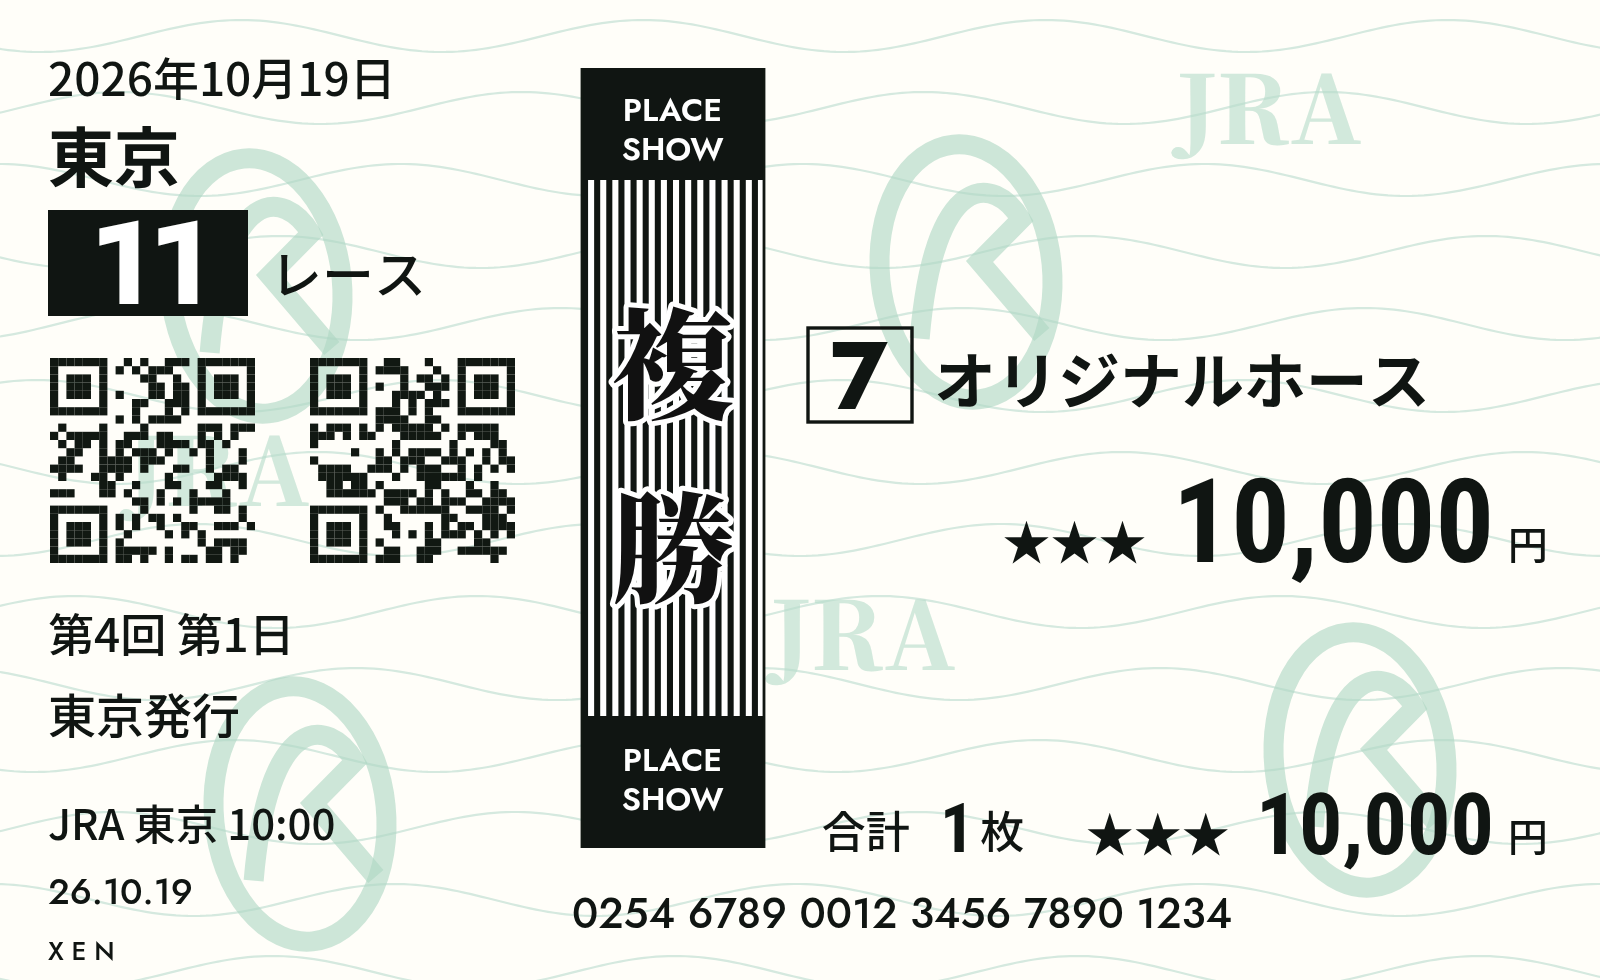
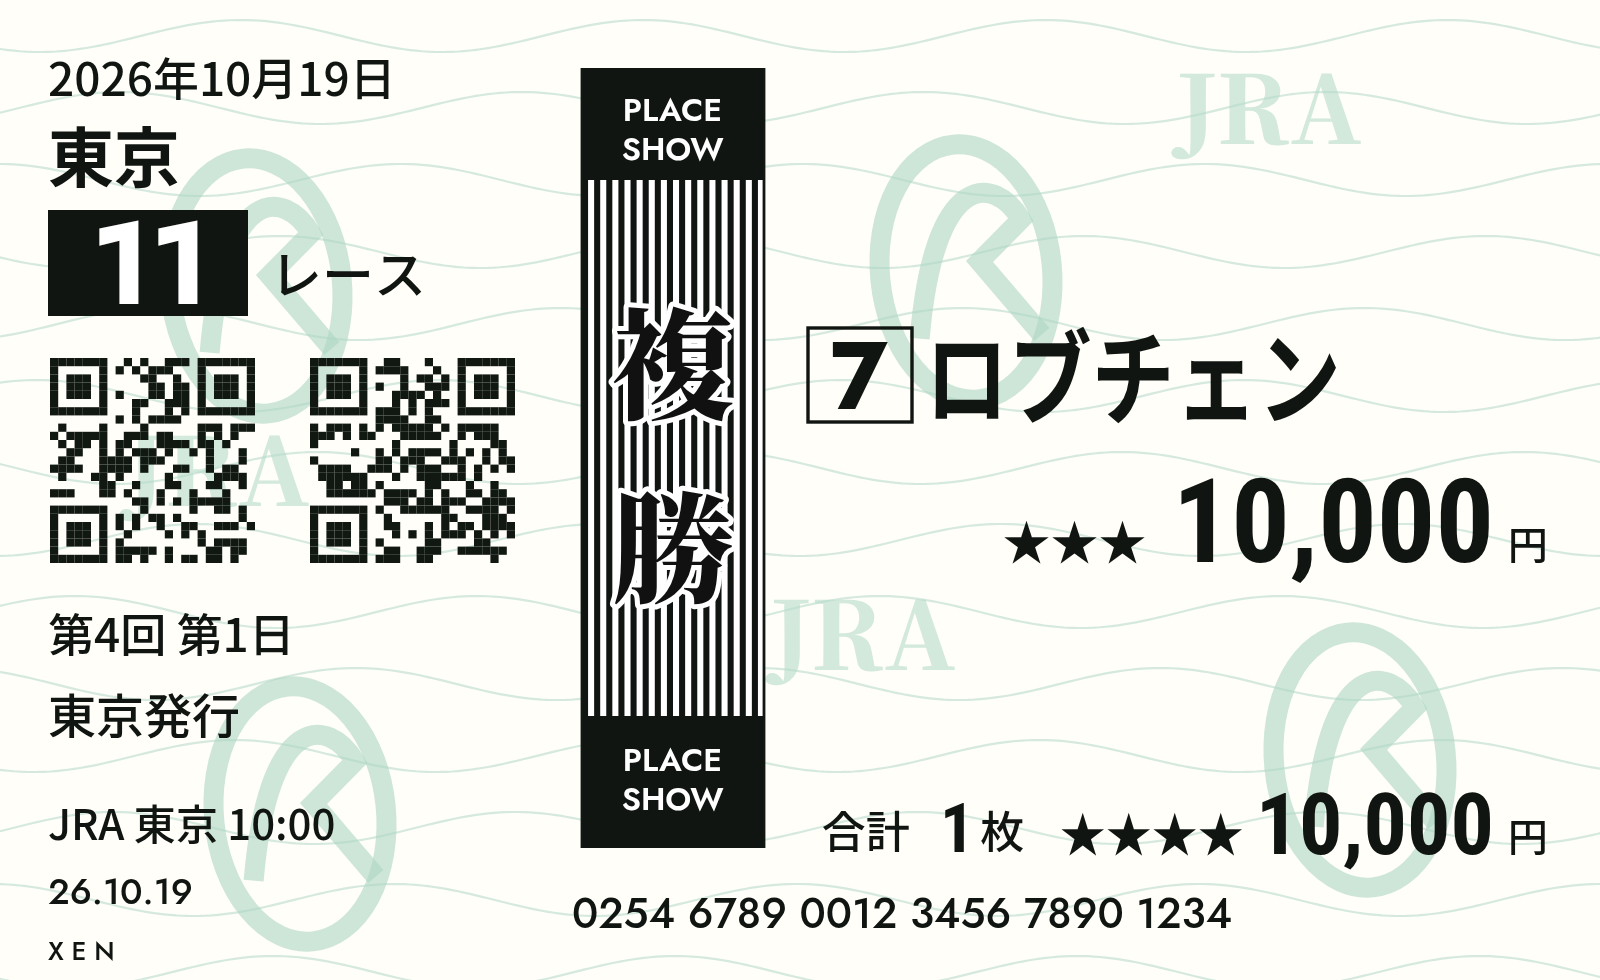
Match horse name height to number frame and use four total stars

Changed region(s): [[0.5625, 0.3367, 0.9062, 0.4286], [0.6562, 0.8265, 0.7812, 0.8878]]

diff --git a/app.js b/app.js
@@ -59,11 +59,22 @@
   function line(x1,y1,x2,y2,width=1.8) {ctx.beginPath();ctx.lineWidth=width;ctx.strokeStyle='#111712';ctx.moveTo(x1,y1);ctx.lineTo(x2,y2);ctx.stroke();}
   function rect(x,y,w,h,width=1.8){ctx.strokeStyle='#101512';ctx.lineWidth=width;ctx.strokeRect(x,y,w,h);}
   function blackBox(x,y,w,h){ctx.fillStyle='#101512';ctx.fillRect(x,y,w,h);}
-  function money(amount,right,y,size=45,maxWidth=285){
+  function horseName(value,x,top,height,maxWidth){
+    ctx.save();setFont(48,'sans',700);ctx.textBaseline='alphabetic';ctx.fillStyle='#101512';
+    const m=ctx.measureText(value), glyphHeight=m.actualBoundingBoxAscent+m.actualBoundingBoxDescent;
+    const scaleY=height/Math.max(1,glyphHeight);
+    const scaleX=Math.min(scaleY*.8,maxWidth/Math.max(1,m.actualBoundingBoxLeft+m.actualBoundingBoxRight));
+    ctx.translate(x,top+height/2);ctx.scale(scaleX,scaleY);
+    ctx.fillText(value,m.actualBoundingBoxLeft,(m.actualBoundingBoxAscent-m.actualBoundingBoxDescent)/2);
+    ctx.restore();
+  }
+  function money(amount,right,y,size=45,maxWidth=285,starCount=3){
     ctx.save();setFont(size,'money',700);const s=number(amount), yen=20, gap=7;
-    const width=Math.min(ctx.measureText(s).width,maxWidth-yen-40), left=right-yen-gap-width;
+    const reserve=starCount===4?100:40;
+    const width=Math.min(ctx.measureText(s).width,maxWidth-yen-reserve), left=right-yen-gap-width;
     text(s,left,y,size,'money',700,width);text('円',right-yen,y-1,20,'sans',500);
-    text('★★★',Math.max(right-maxWidth,left-85),y-1,24,'number',500,Math.max(20,left-Math.max(right-maxWidth,left-85)-6));ctx.restore();
+    const starLeft=Math.max(right-maxWidth,left-(starCount===4?98:85));
+    text('★'.repeat(starCount),starLeft,y-1,24,'number',500,Math.max(20,left-starLeft-6));ctx.restore();
   }
   // Fixed decoration: paint only dark modules so every light area stays transparent.
   function decorativeCode(x,y,seed){
@@ -133,14 +144,14 @@
       rect(397,34,376,67,1.6);const chars=[...'がんばれ！'];chars.forEach((s,i)=>centeredText(s,409+(i+.5)*70,66,43,'cheer',400,65));
     }
     rect(404,horseTop,52,47,1.7);centeredText(d.horse,430,horseTop+23.5,48,'number',700,44);
-    text(d.horseName,467,horseTop+38,31,'sans',700,305);
+    horseName(d.horseName,467,horseTop-.85,48.7,305);
     if(d.type==='cheer'){
       money(d.amount,774,274,51,282);
       text('単勝',521,329,23,'sans',500,61);money(d.amount,774,331,36,188);
       text('複勝',521,374,23,'sans',500,61);money(d.amount,774,376,36,188);
     }else money(d.amount,774,281,58,314);
     text(`合計`,411,424,22,'sans',500);text(d.type==='cheer'?'2':'1',470,426,34,'money',700);text('枚',490,424,22,'sans',500);
-    money(d.amount*(d.type==='cheer'?2:1),774,427,43,255);
+    money(d.amount*(d.type==='cheer'?2:1),774,427,43,255,4);
     text(d.serial,286,464,21,'number',500,489);
     text('X E N',24,480,13,'number',500,200);
   }

diff --git a/docs/VERIFICATION.md b/docs/VERIFICATION.md
@@ -27,3 +27,10 @@
 - [ ] Firefox・Safari・Windowsでの横断確認
 
 地模様、JRA透かし図形、管理印字、固定のコード装飾は近似。元の社内実装にはアクセスしていない。
+
+## 馬名と合計欄の調整（2026-10-19）
+
+- 馬名の見えている字形の上下を、馬番枠の線幅を含む外縁に一致させた。
+- 馬名は同じNoto Sans JP 700を使用し、横方向を縦方向の80%にして縦長にした。長い馬名はさらに横幅を調整。
+- 合計枚数の右・合計金額の左の星を4つに変更。最大金額でも星と金額が重ならない幅を確保。
+- Chromiumで3券種、短い馬名・通常名・長い馬名の字形範囲を確認。100円・10,000円・999,900円のPNG保存と画像の収まりを確認。
